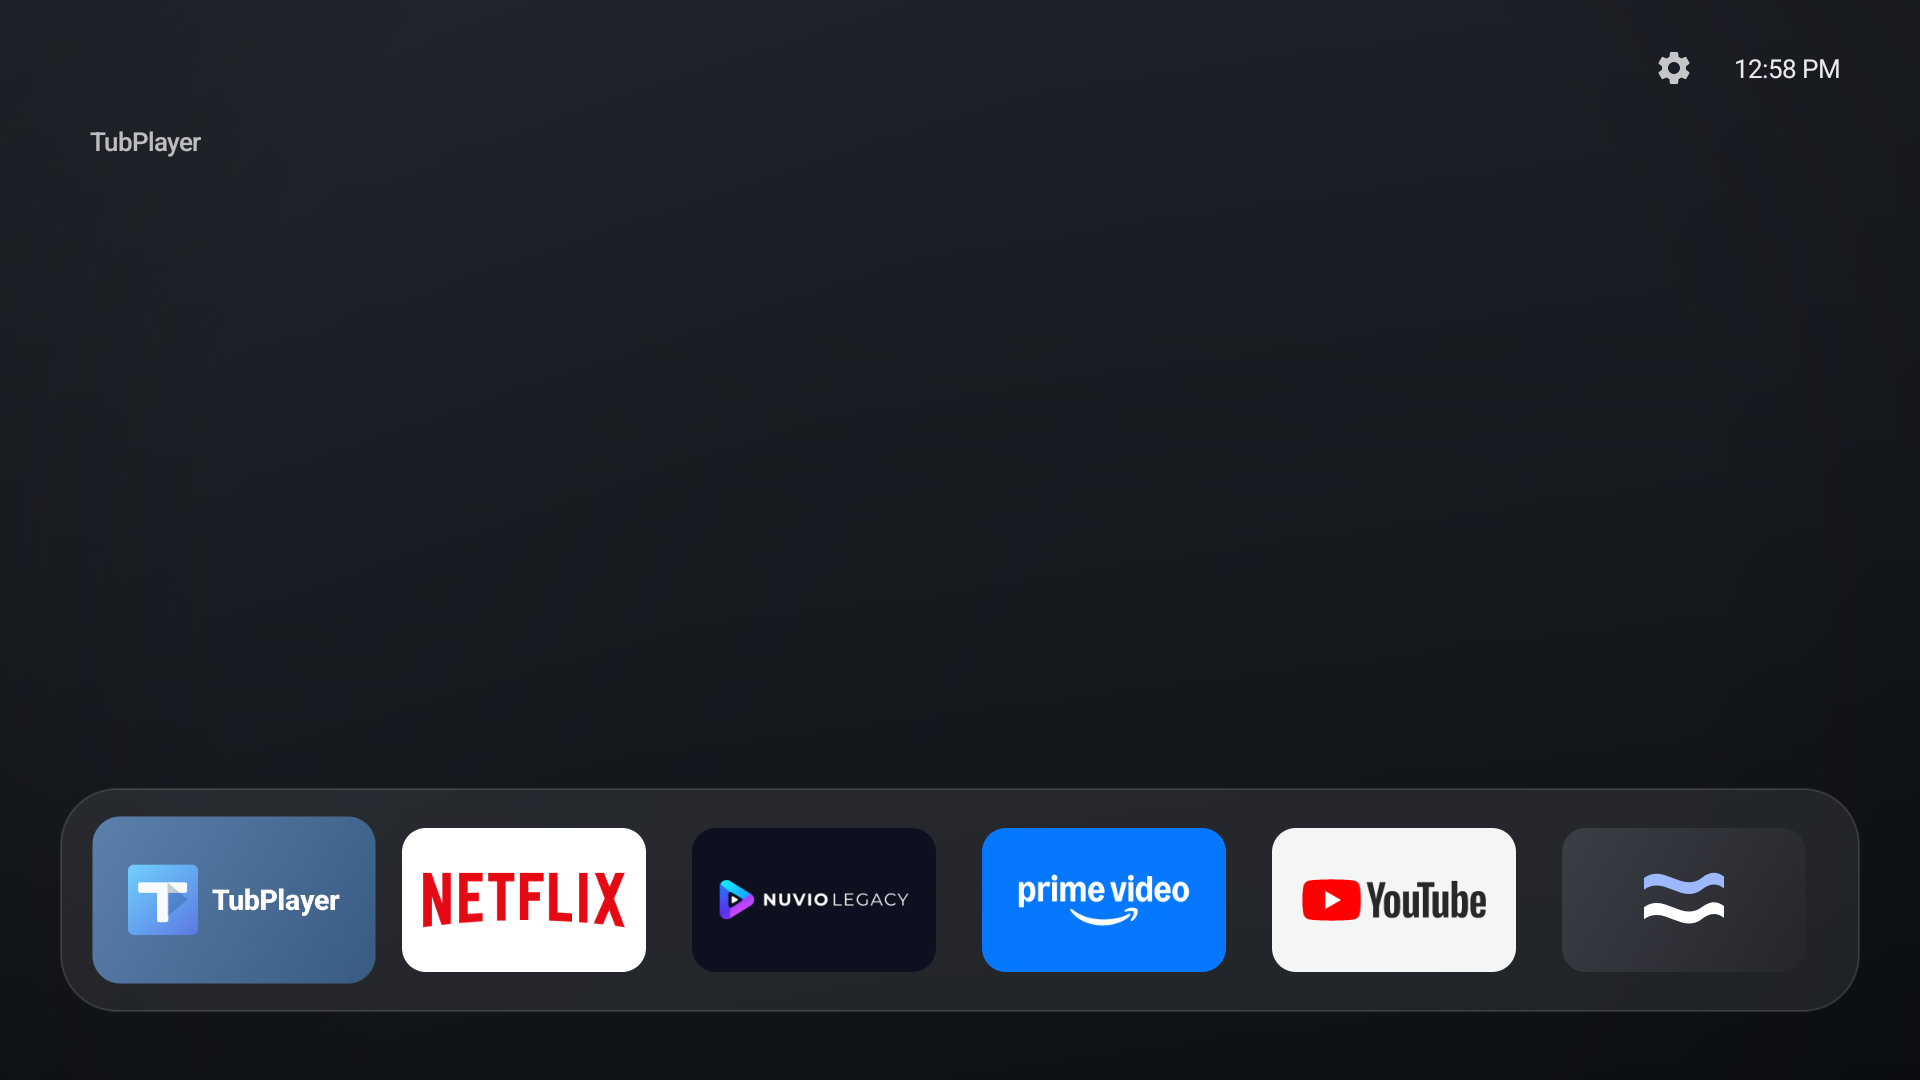
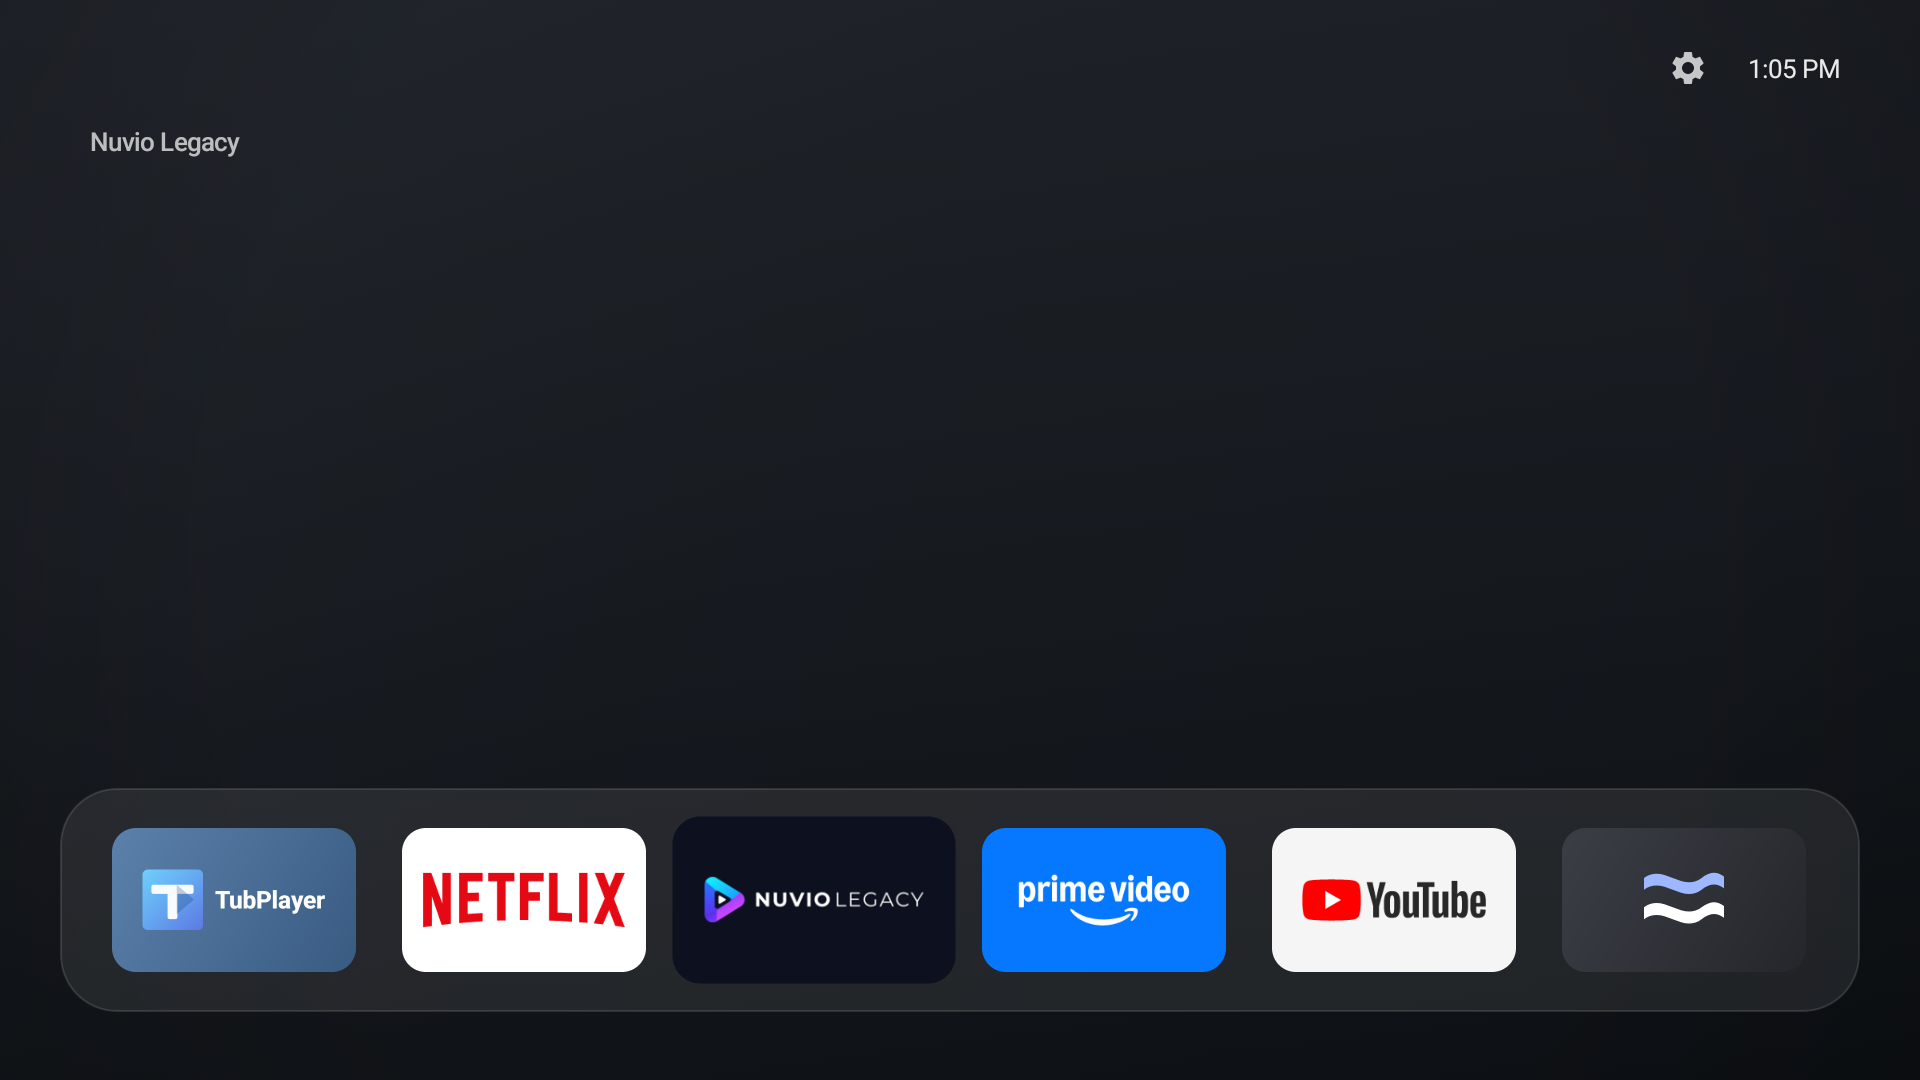
Use Nuvio demos showing the loaded app and return to Flow

diff --git a/docs/measurements/README.md b/docs/measurements/README.md
@@ -1,6 +1,6 @@
 # Capture and measurement notes — 2026-10-15
 
-Device: onn. 4K Streaming Box (YOC), Android 14. Physical display size reported by Android: 3840 × 2160; configured UI override: 1920 × 1080. Screenshots are direct 1920 × 1080 ADB captures. The Netflix animation GIFs were recorded at 1280 × 720 and exported at 960 × 540 (opening: 20 fps; return and Recents: 25 fps). Opening includes about fourteen seconds in Netflix before Home; return is an excerpt from that recording; Netflix itself appeared black in the recording. GIF frame rate is an export setting, not a measurement of launcher performance.
+Device: onn. 4K Streaming Box (YOC), Android 14. Physical display size reported by Android: 3840 × 2160; configured UI override: 1920 × 1080. Screenshots are direct 1920 × 1080 ADB captures. The Nuvio Legacy GIFs were recorded at 1280 × 720 and exported at 960 × 540 (opening: 20 fps; return and Recents: 25 fps). The opening demo reaches Nuvio's loaded home screen; the return animation is a separate recording. GIF frame rate is an export setting, not a performance measurement.
 
 ## Provenance
 
@@ -20,14 +20,12 @@ Frame counters were reset with `adb shell dumpsys gfxinfo com.sghmire.flow reset
 
 No repeated trials, cold-start timings, battery measurements, before/after comparison, or exhaustive device testing were performed. The captures verify visible home, app-menu, tile-style, recent-app, and launch/return flows on this device; they do not validate every feature.
 
-## Replacement Netflix captures
+## Current Nuvio captures
 
-All four README screenshots and all three GIFs were recaptured using Netflix on the same TV on 2026-10-15. `opening.gif` shows the Netflix tile expanding; `app-return.gif` shows Home returning from Netflix to the launcher. `recents-dismiss.gif` shows double-Home opening Recents, Up dismissing Netflix, and the empty state. The previous YouTube recent card was dismissed before recording. Other installed apps remain visible in the dock.
-
-These are visual demonstrations, not additional performance samples. The numerical results above retain their original measurement conditions and were not relabeled as Netflix benchmarks.
+README screenshots and all three GIFs use Nuvio Legacy on the same TV on 2026-10-15. `opening.gif` follows the dock launch through the splash screen to the loaded home screen, also saved as `app-landing.png`. `app-return.gif` shows Home returning to Flow. `recents-dismiss.gif` shows Recents opening and Nuvio being dismissed. Other installed apps remain visible in the dock. These are visual demonstrations, not new performance samples; the earlier measurement conditions remain unchanged.
 
 ## Background refresh
 
[1 lines of base64/hex data omitted]
 
-During the longer Netflix sample, Android reported `com.netflix.ninja/.MainActivity` as the resumed activity after fourteen seconds. The user confirmed the Netflix home/profile screen was visible on the TV. ADB screenshots returned empty files and screenrecord rendered the app surface black; the GIF cannot visibly demonstrate that landing screen. A camera recording is needed to show it. Existing unrelated source edits remain outside this commit.
+Nuvio replaced the previous Netflix demos because its loaded home screen is visible in ADB captures. No source changes or new performance measurements were made for this capture replacement. Existing unrelated source edits remain uncommitted.

diff --git a/README.md b/README.md
@@ -19,9 +19,11 @@ A compact Android TV home screen built with native Java views: a smooth blue-cha
 
 ### Opening an app
 
-Recorded on an onn. 4K Streaming Box; the GIF shows Netflix opening from the dock, remaining in the app for about fourteen seconds, and returning home. Netflix’s home/profile screen was confirmed on the TV, but appears black in ADB recordings.
+Recorded on an onn. 4K Streaming Box. The demo follows Nuvio Legacy from its dock tile through its splash screen to its loaded home screen.
 
-![Netflix opening](docs/images/opening.gif)
+![Nuvio opening and landing](docs/images/opening.gif)
+
+[View the loaded Nuvio screen](docs/images/app-landing.png)
 
 ### Personalization and recent apps
 
@@ -33,7 +35,7 @@ Recorded on an onn. 4K Streaming Box; the GIF shows Netflix opening from the doc
 
 ### Recent apps and closing animations
 
-Open Recents with double Home, then press Up to dismiss the selected Netflix app. The capture shows the Netflix card moving upward and the empty state.
+Open Recents with double Home, then press Up to dismiss the selected Nuvio app. The capture shows the Nuvio card moving upward and the empty state.
 
 ![Recent apps entrance and app dismissal](docs/images/recents-dismiss.gif)
 
